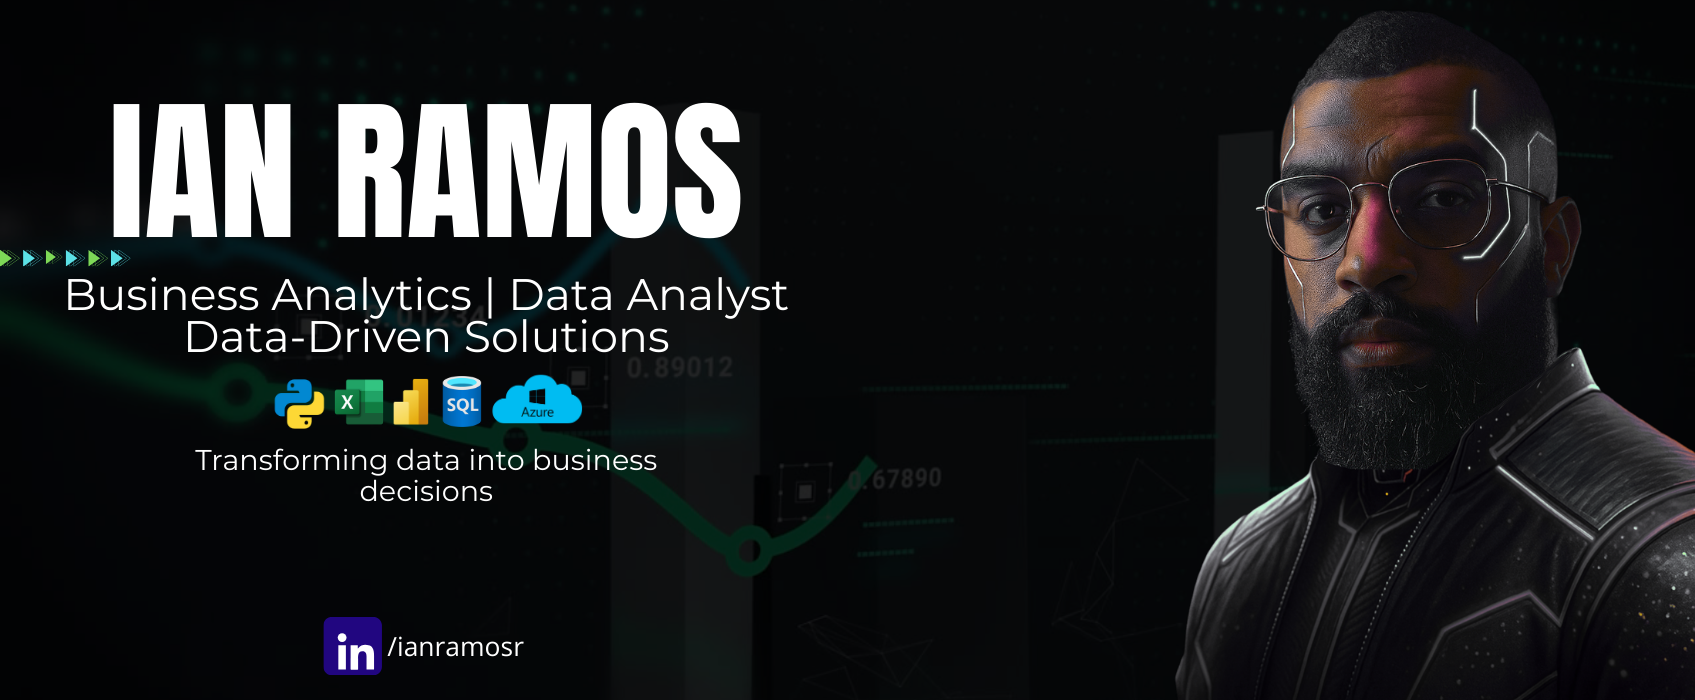
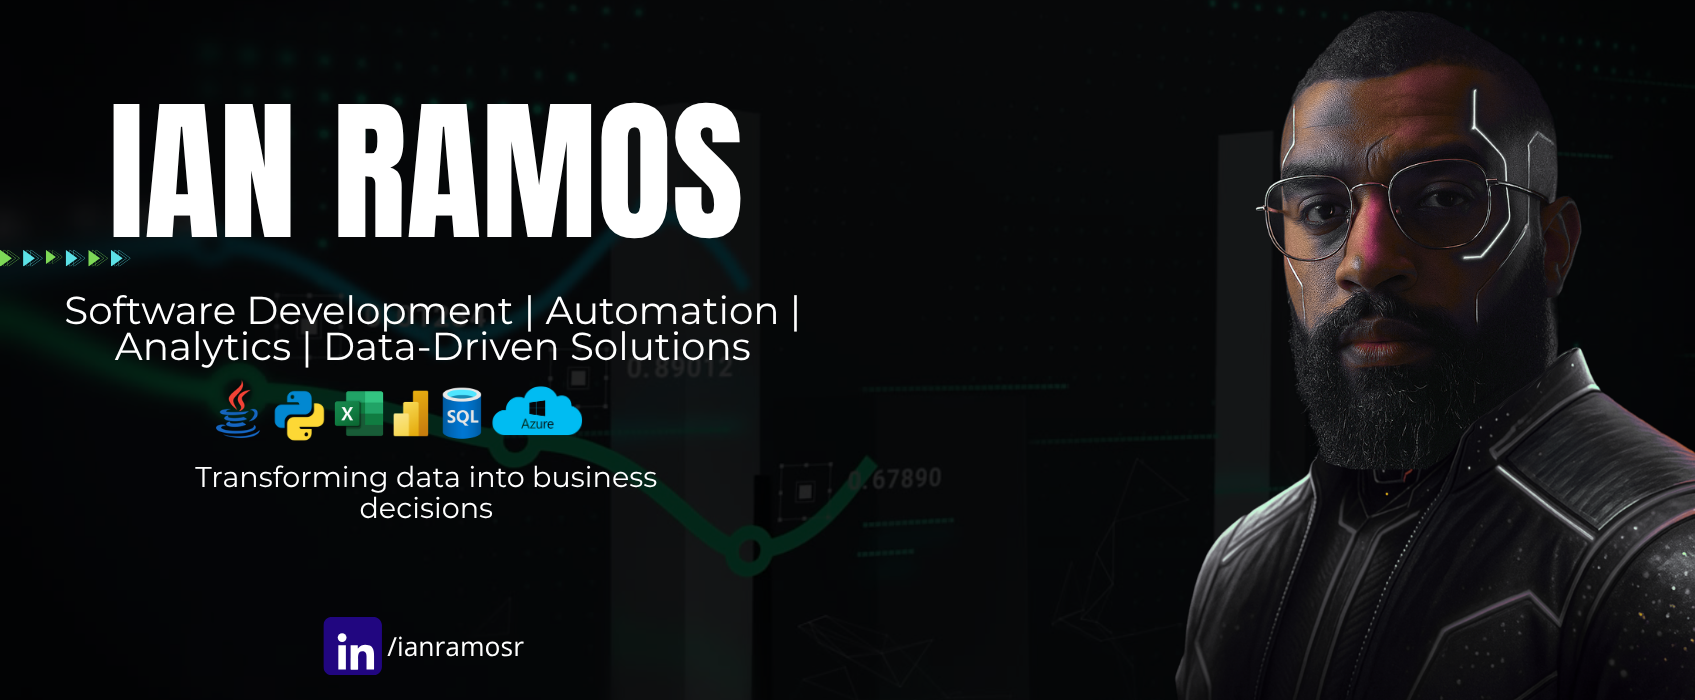
Update assets & readme

Changed region(s): [[0.0307, 0.39, 0.4602, 0.75]]

diff --git a/README.md b/README.md
@@ -19,10 +19,7 @@
 Consultor na EY com mais de 3 anos de experiência no setor financeiro. Foco atual em automação de processos, integração de sistemas e desenvolvimento de software.
 Experiência prática com análise de dados, pipelines no Databricks e entrega de automação para geração de relatórios.
 
-Formado em Análise e Desenvolvimento de Sistemas, atualmente em transição para 
-Analytics com foco em Fraud & Risk Analytics para o setor financeiro.
-
-Aprofundo conhecimentos em SQL, Power BI e Python aplicando-os em projetos reais 
+Formado em Análise e Desenvolvimento de Sistemas, sigo aprofundando meus conhecimentos em Desenvolvimento de software, além de SQL, Power BI e Python para dados, aplicando-os em projetos reais 
 de negócio. Uso IA como parceira de trabalho para acelerar ideias e explorar insights.
 
 ---
@@ -49,9 +46,10 @@ de negócio. Uso IA como parceira de trabalho para acelerar ideias e explorar in
 
 ### 📚 Desenvolvimento Constante
 
+- 🔸 Python: Pandas, NumPy
+- 🔸 Desenvolvimento Backend Java
 - 🔸 SQL para análise de dados, automações e insights em BI
 - 🔸 Power BI: Avançando em DAX, relatórios profissionais e projetos de negócio
-- 🔸 Python: Pandas, NumPy
 - 🔸 Aplicação prática dos conhecimentos em projetos com storytelling: visual, impacto e foco em soluções de negócio  
 
 ---
